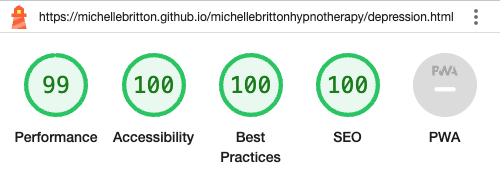
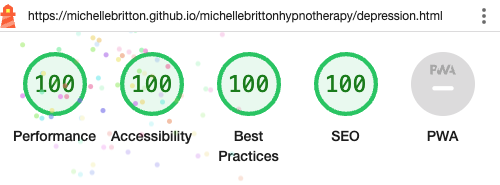
Retesting lighthouse and replacing images

diff --git a/README.md b/README.md
@@ -308,6 +308,12 @@ Initial testing for Mobile What is Hypnotherapy page
 
 ![Initial testing for Mobile What is Hypnotherapy page](documentation/testing/lighthouse/what-is-hypnotherapy-mobile.png)
 
+Suggestions: 
+
+- Improve colour contrast for form submit button. I have changed the lavender background to a deep purple.
+
+![Final testing for Mobile What is Hypnotherapy page](documentation/testing/lighthouse/what-is-hypnotherapy-mobile-final.png)
+
 #### Sessions & Fees Page 
 
 Initial and final testing for Desktop Sessions & Fees page
